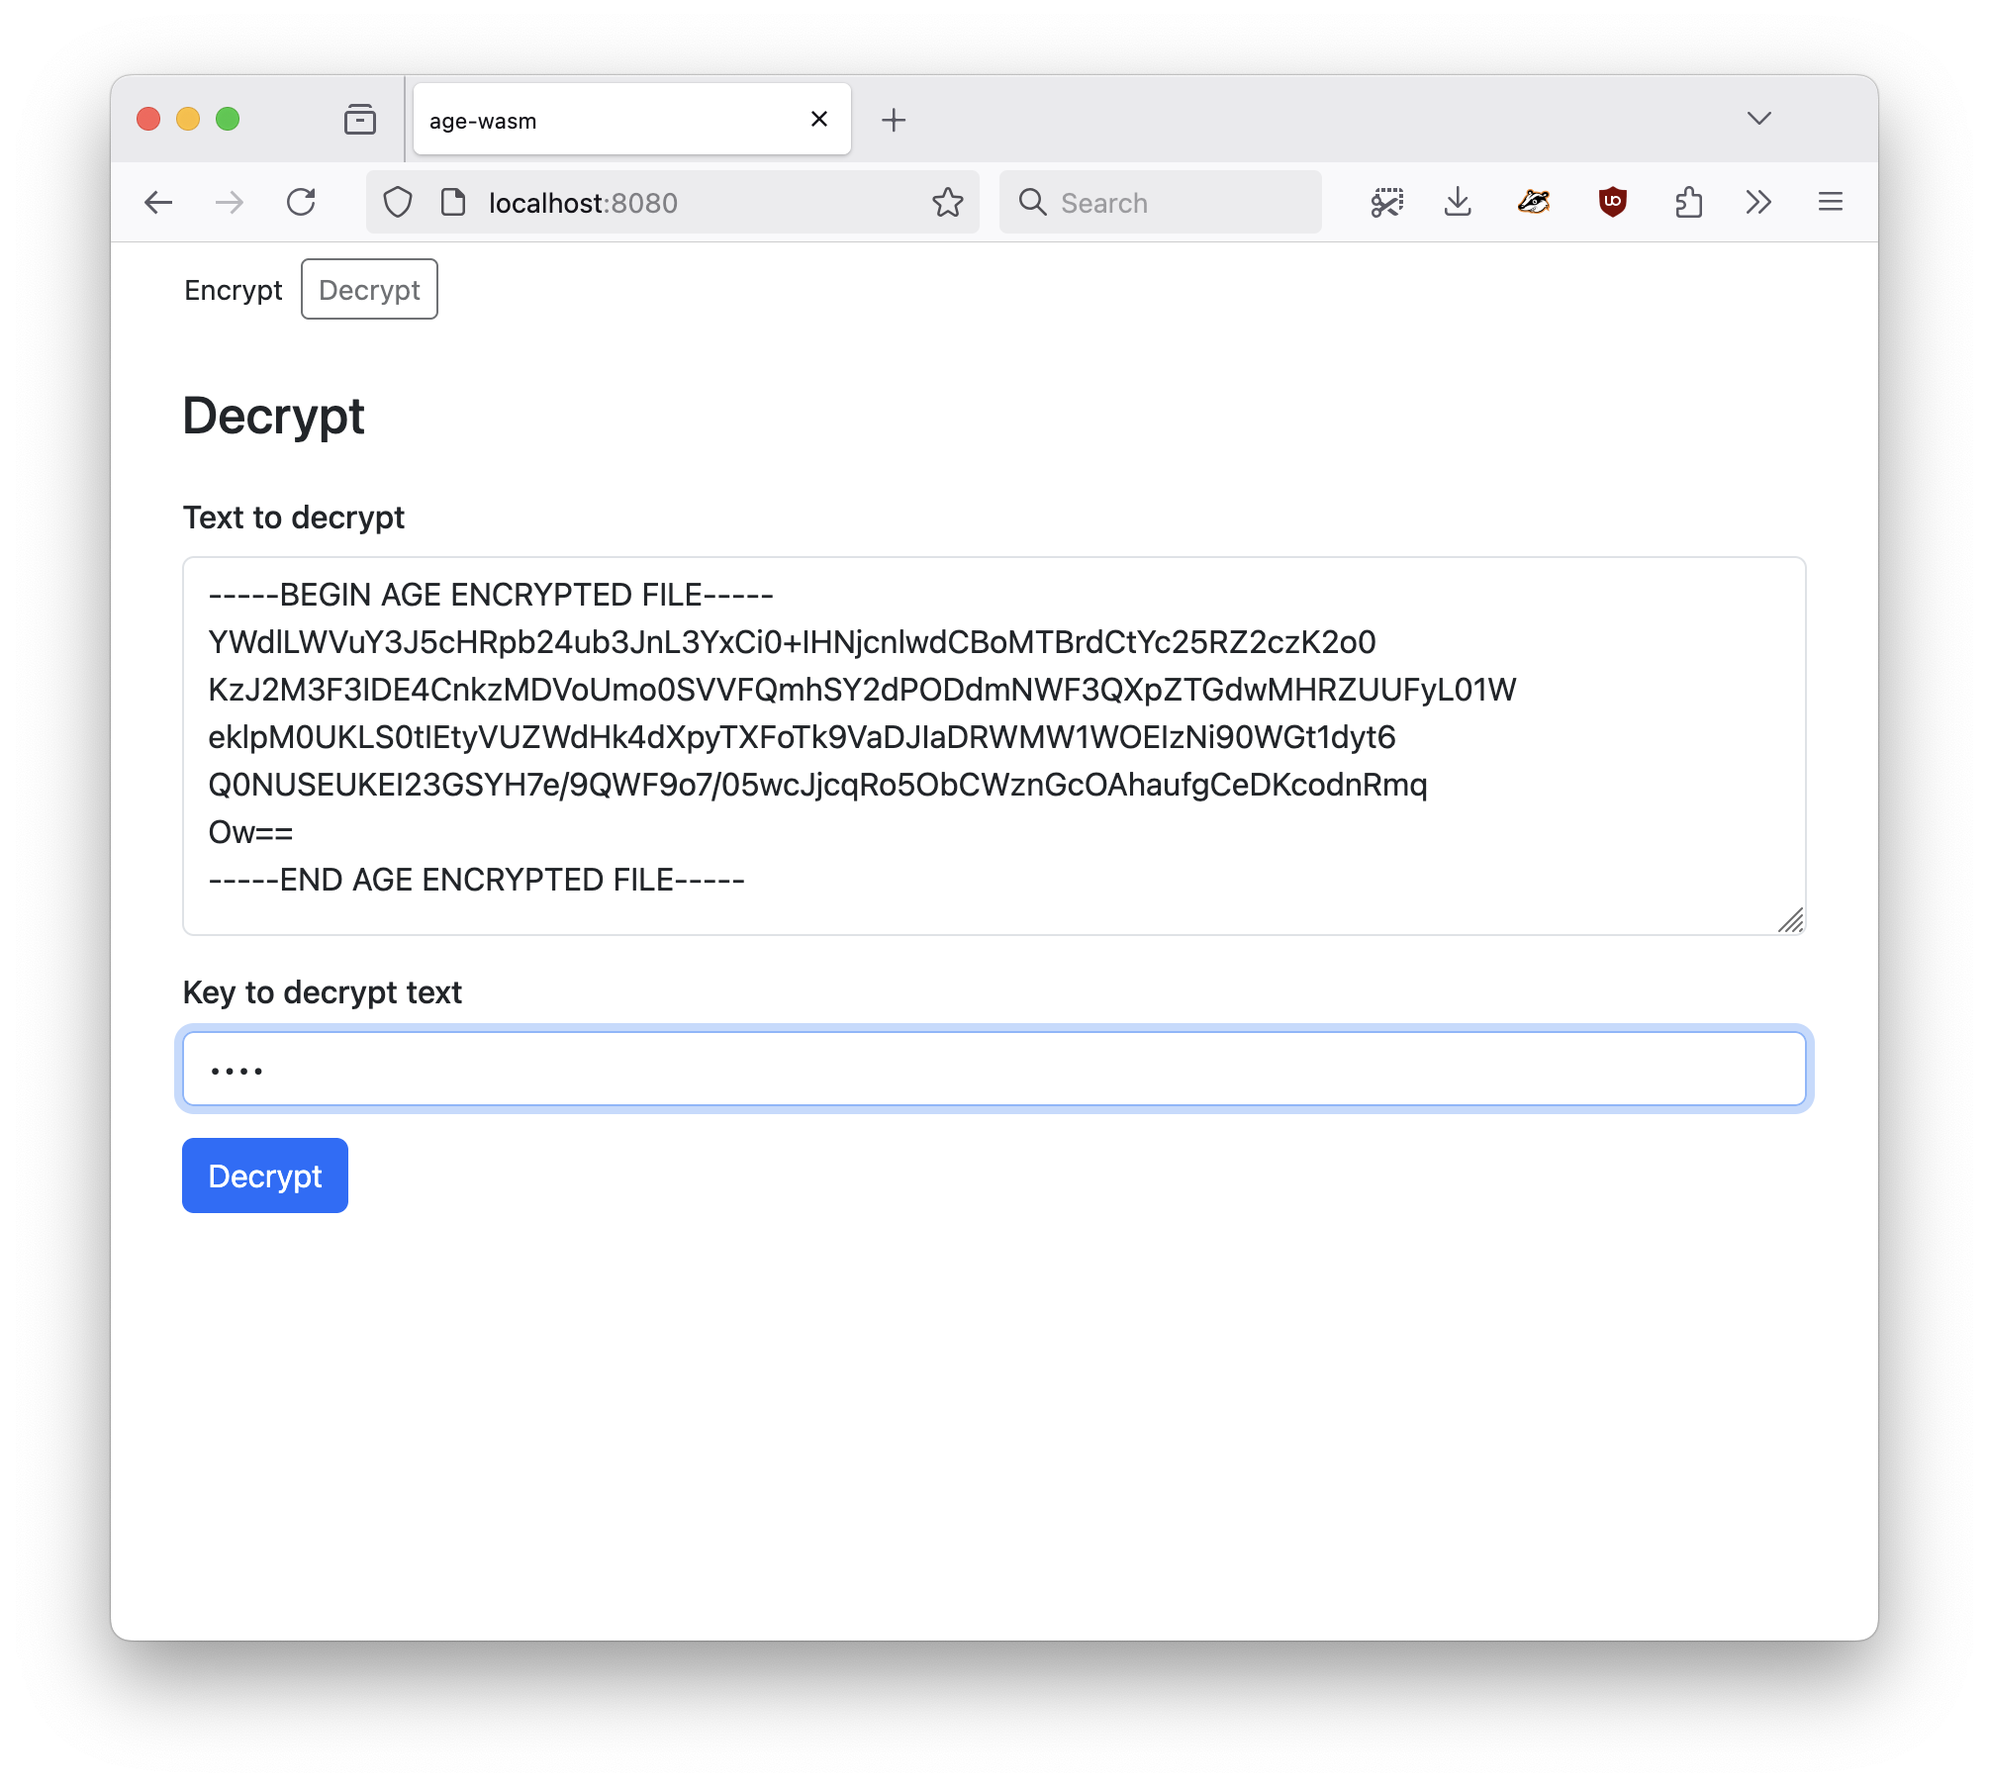
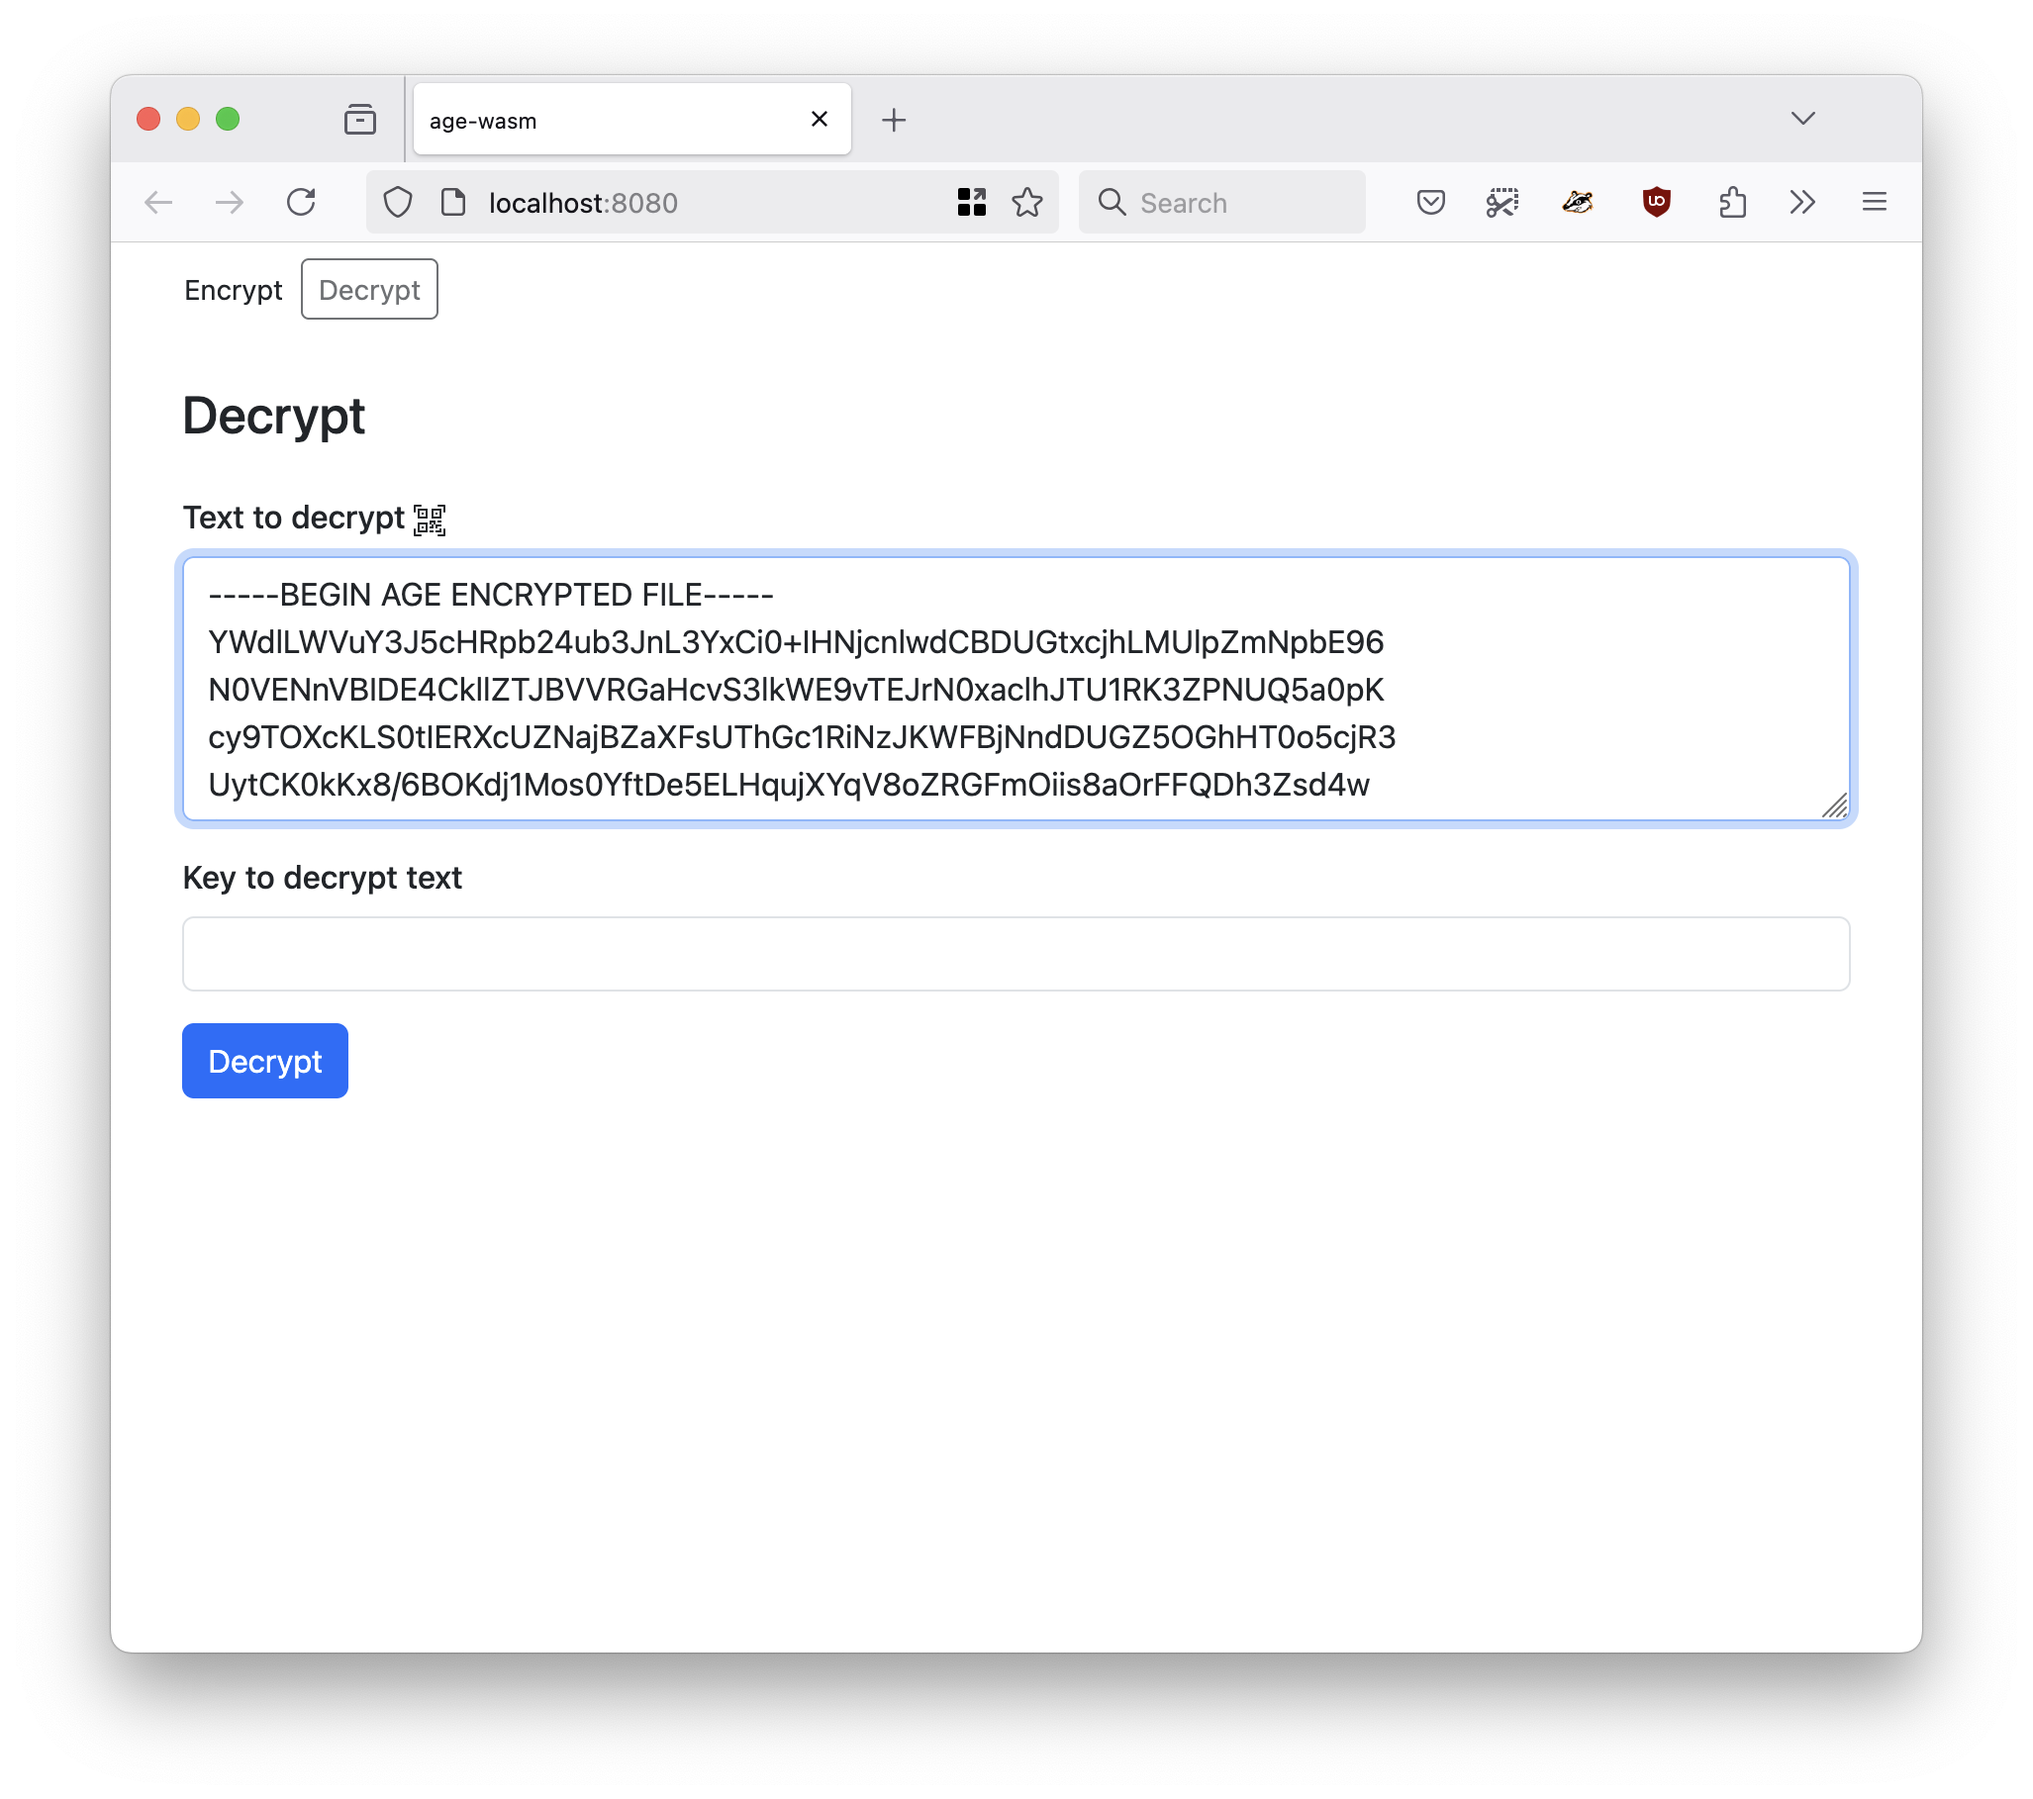
update docs

diff --git a/README.md b/README.md
@@ -20,19 +20,56 @@ GOOS=js GOARCH=wasm \
 
 ## Example
 
-Point a web server at the [www](www) folder and then load it in your web browser.
+Point a web server at the [www](www) folder and then load it in your web browser. I like to use the `fileserver` tool in the [aaronland/go-http-fileserver]() package mostly because I wrote but, really, any web server will do. For example:
 
-![](docs/images/wasm-age-encrypt.png)
+```
+$> fileserver -root www
+2025/06/04 10:36:23 Serving www and listening for requests on http://localhost:8080
+```
+
+And then when you open your web browser to `http://localhost:8080` you see something like this:
+
+![](docs/images/wasm-age-launch.png)
+
+The default tab allows you to encrypt arbitrary text data. By default the text entered in to the form is hidden:
+
+![](docs/images/wasm-age-encrypt-hidden.png)
+
+If you click on the [EYEBALL] icon you can see the text you've entered:
 
 ![](docs/images/wasm-age-encrypt-plaintext.png)
 
-![](docs/images/wasm-age-encrypt-encrypted.png)
+Add a password (key) to encrypt the content.
+
+![](docs/images/wasm-age-encrypt-key.png)
+
+When you click the `Encrypt` button you're text will be encrypted using `age` WebAssembly binary and the result will be printed to the screen.
+
+![](docs/images/wasm-age-encrypted.png)
+
+If your web browser supports the [Clipboard API](https://developer.mozilla.org/en-US/docs/Web/API/Clipboard) there will also be a [CLIPBOARD] icon which will allow you to copy the encrypted data to your computer's clipboard.
+
+If you click the [QR] icon the encrypted content will be encoded in a QR code.
+
+![](docs/images/wasm-age-encrypted-qr.png)
+
+Clicking the "Decrypt" button (at the top of the page) will display the new tab for decypted `age`-encoded data. You can enter the text manually (or by copy-pasting) or you can also click the [SCAN] icon to launch an interactive camera for scanning QR codes.
 
 ![](docs/images/wasm-age-decrypt.png)
 
+Once the camera finds a QR code it will outline it in the image and write its data back to the default input form.
+
+![](docs/images/wasm-age-decrypt-qr.png)
+
+When you click the `Decrypt` button the data will be decrypted using the `age` WebAssembly binary and the results will be printed to the screen.
+
 ![](docs/images/wasm-age-decrypted.png)
 
+By default the unencypted data is obscured but if you click the [EYEBALL] icon you can see the unencypted text.
+
 ![](docs/images/wasm-age-decrypted-plaintext.png)
+
+If your web browser supports the [Clipboard API](https://developer.mozilla.org/en-US/docs/Web/API/Clipboard) there will also be a [CLIPBOARD] icon which will allow you to copy the unencrypted data to your computer's clipboard.
 
 ## See also
 
